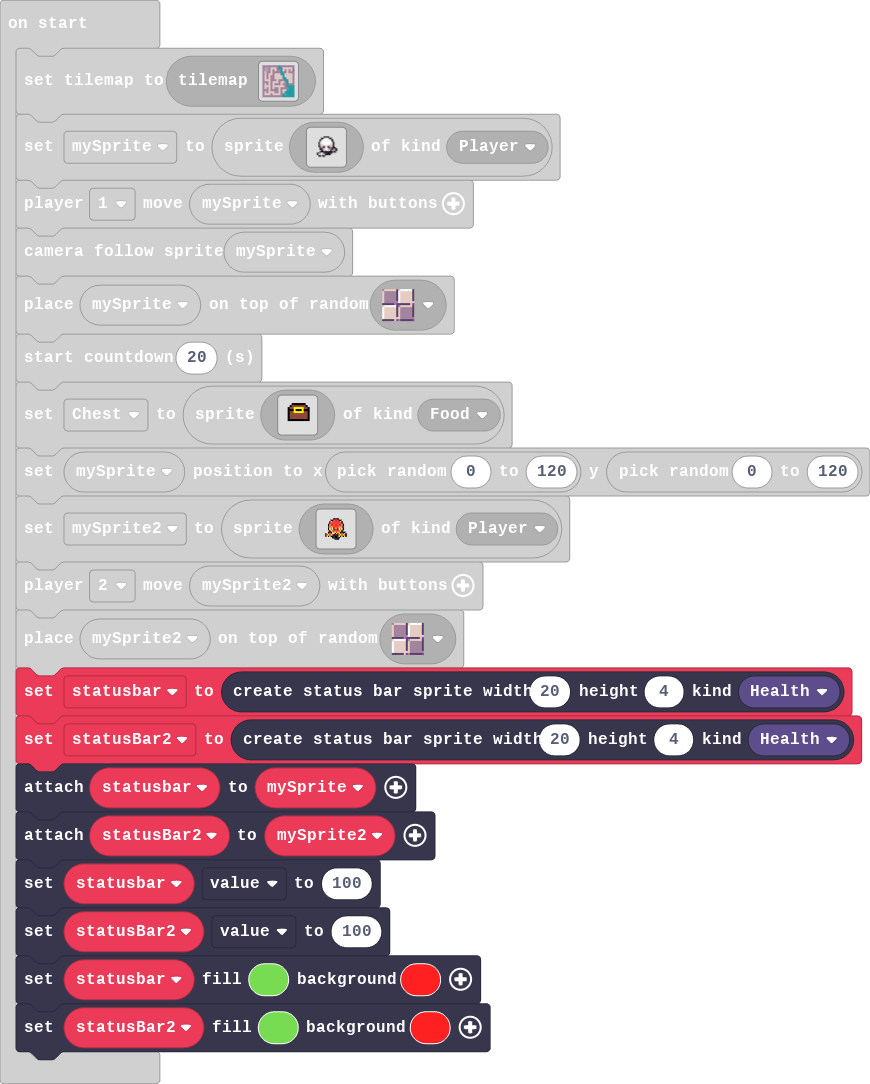
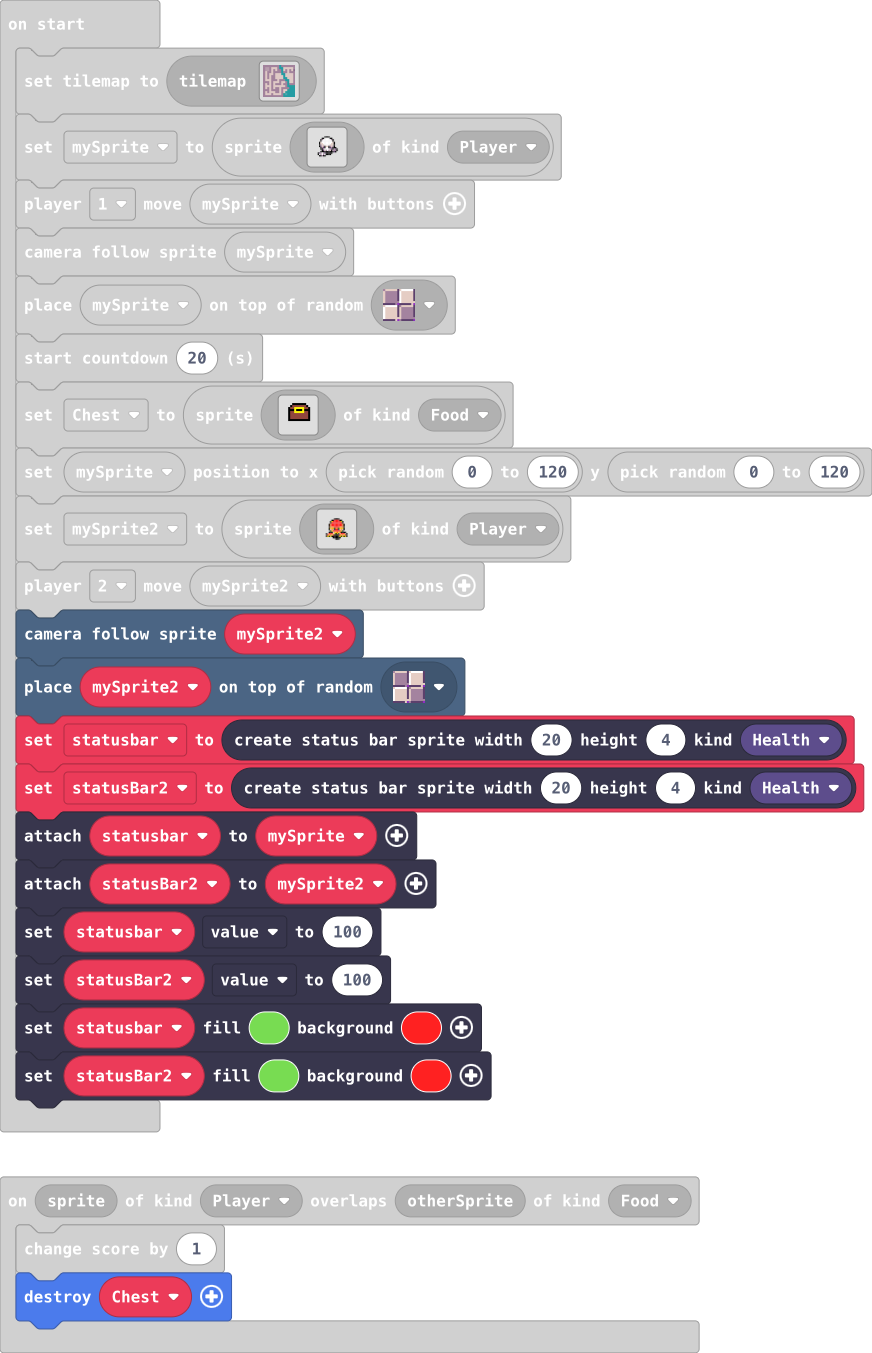
Update main.blocks, main.ts

diff --git a/main.ts b/main.ts
@@ -1,9 +1,11 @@
 sprites.onOverlap(SpriteKind.Player, SpriteKind.Food, function (sprite, otherSprite) {
     info.changeScoreBy(1)
+    sprites.destroy(Chest)
 })
 scene.onOverlapTile(SpriteKind.Player, sprites.dungeon.floorDark3, function (sprite, location) {
     game.gameOver(true)
 })
+let Chest: Sprite = null
 tiles.setCurrentTilemap(tilemap`level3`)
 let mySprite = sprites.create(img`
     ........................
@@ -35,7 +37,7 @@ controller.player1.moveSprite(mySprite)
 scene.cameraFollowSprite(mySprite)
 tiles.placeOnRandomTile(mySprite, sprites.dungeon.floorMixed)
 info.startCountdown(20)
-let Chest = sprites.create(img`
+Chest = sprites.create(img`
     . . . . . . . . . . . . . . . . 
     . . . . . . . . . . . . . . . . 
     . . . . . f f f f f f f . . . . 
@@ -81,6 +83,7 @@ let mySprite2 = sprites.create(img`
     ........................
     `, SpriteKind.Player)
 controller.player2.moveSprite(mySprite2)
+scene.cameraFollowSprite(mySprite2)
 tiles.placeOnRandomTile(mySprite2, sprites.dungeon.floorMixed)
 let statusbar = statusbars.create(20, 4, StatusBarKind.Health)
 let statusBar2 = statusbars.create(20, 4, StatusBarKind.Health)
